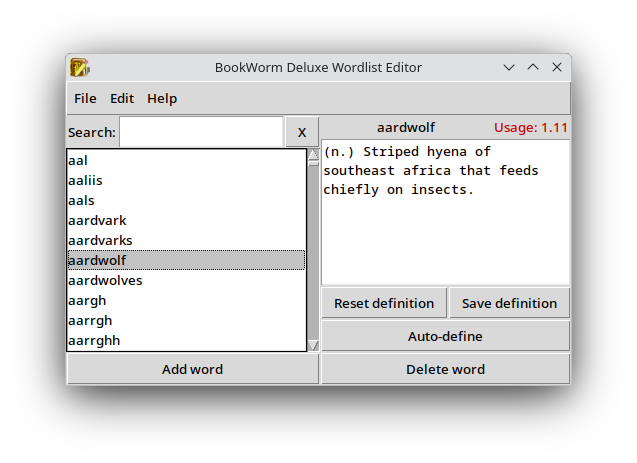
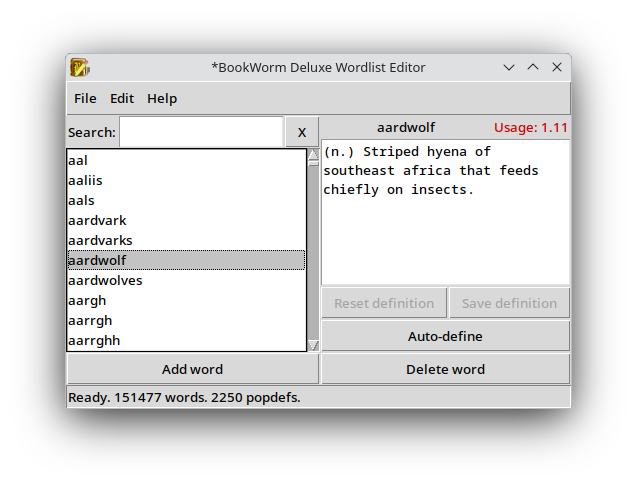
Updated readme

Changed region(s): [[0.0895, 0.0907, 0.8948, 0.8467]]

diff --git a/README.md b/README.md
@@ -17,8 +17,8 @@ To run from source, install Python 3.10 or newer, and then the dependencies, the
 For the auto-define button to work, the program requires an internet connection to download the NLTK wordnet package when it starts up for the first time. If it doesn't have one, it will still function mostly-normally, but the button will just show an error message. It will try to download wordnet again on the next startup.
 
 ### Program operation:
-- When the program opens, it will default to opening the BookWorm Deluxe folder in the expected system location per your platform. If on Linux or MacOS, it will assume the default Wine prefix in your user directory. If it does not find the wordlist.txt and popdefs.txt files in this default location, or the default location doesn't exist, it will ask you to choose the BookWorm Deluxe folder manually. After it loads, you should see a list of words in the left pane.
-- Select a word to see its usage frequency according to wordfreq, and its current popdef (blank for no popdef). If the usage frequency is below an arbitrary value where I think it might need a popdef, it will show in red. Otherwise, it will show in black. While a word is selected you can:
+When the program opens, it will default to opening the BookWorm Deluxe folder in the expected system location per your platform. If on Linux or MacOS, it will assume the default Wine prefix in your user directory. If it does not find the wordlist.txt and popdefs.txt files in this default location, or the default location doesn't exist, it will ask you to choose the BookWorm Deluxe folder manually. After it loads, you should see a list of words in the left pane. The bottom of the window shows the current number of words and popdefs in memory when idle, and status information on any currently running threaded operations.
+- Select a word to see its usage frequency according to wordfreq (zero for no wordfreq entry), and its current popdef (blank for no popdef). If the usage frequency is below an arbitrary value where I think it might need a popdef, it will show in red. Otherwise, it will show in black. While a word is selected you can:
     - Edit the popdef and save it. Note that if you select a different word before saving the definition, it will reset.
     - Reset the popdef to what it was the last time you saved it.
     - Auto-create a popdef using the NLTK wordnet English dictionary.
